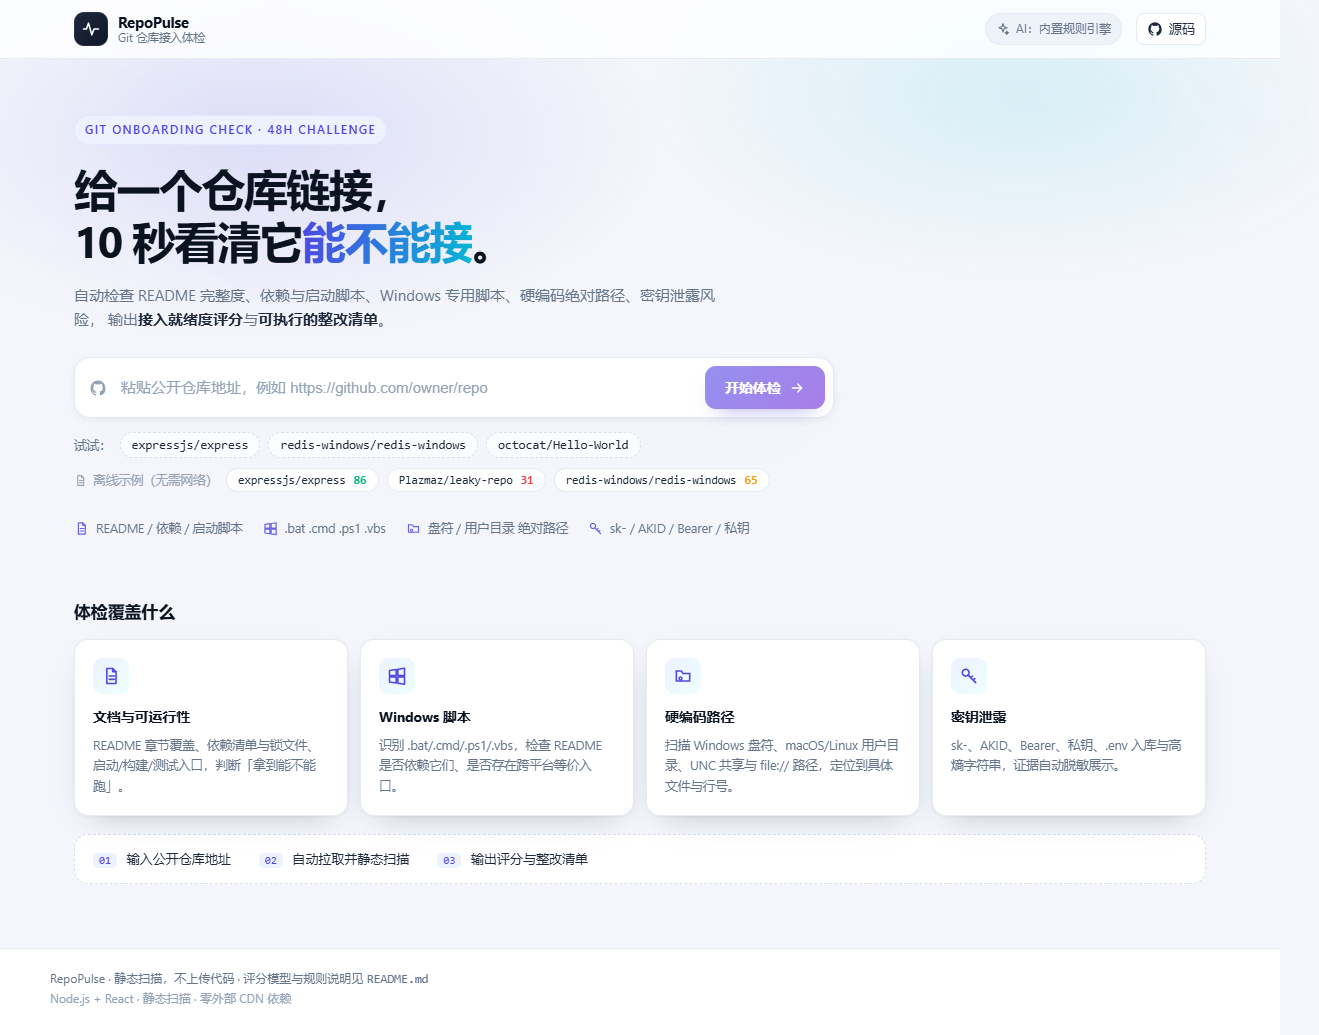
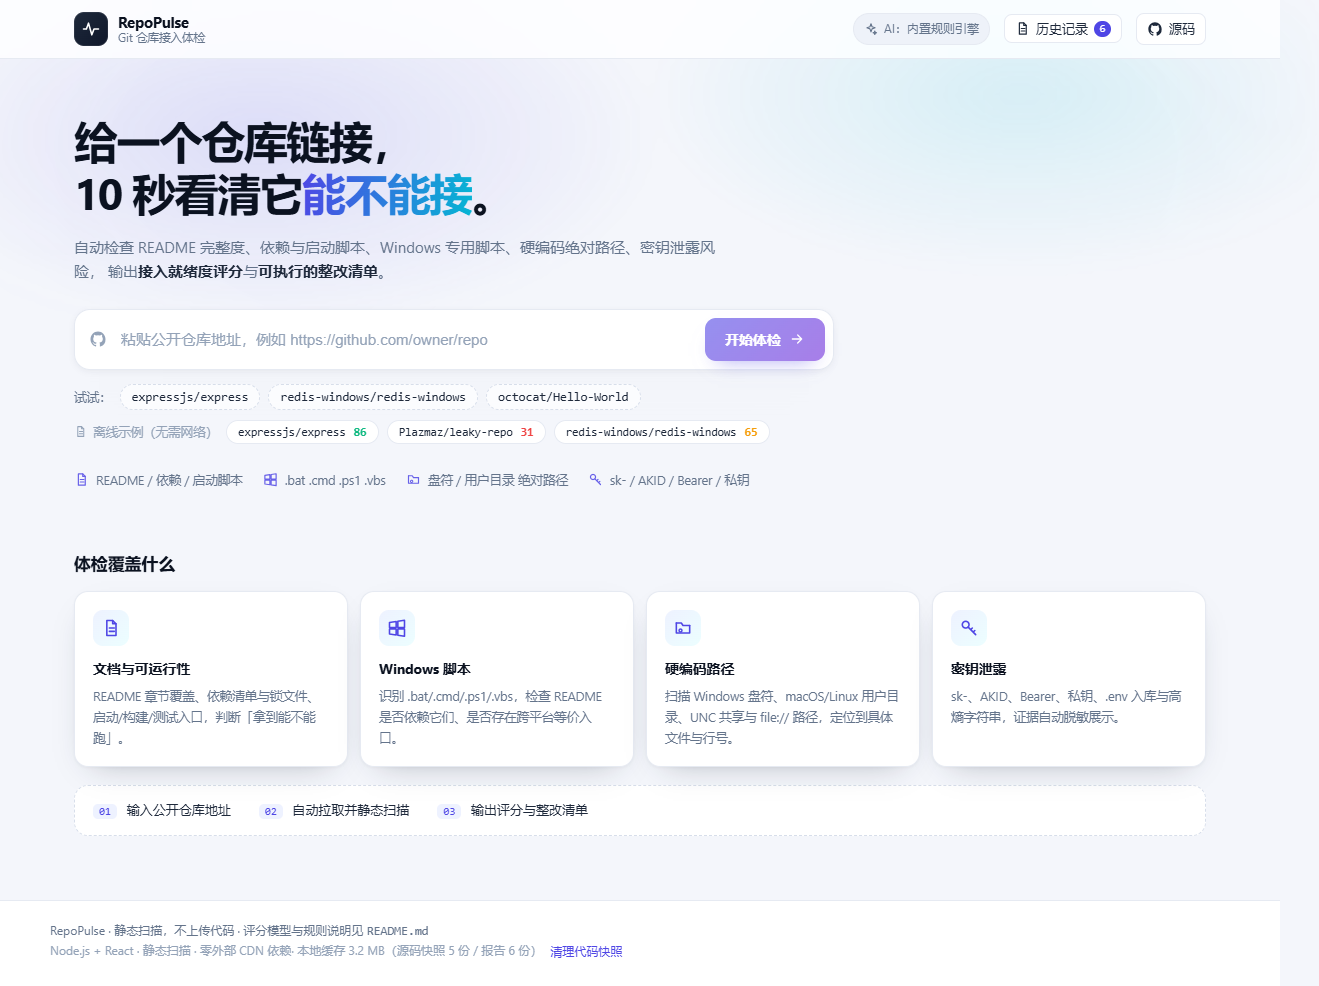
style: 去掉首页顶部的 GIT ONBOARDING CHECK 标签，首页截图同步更新

diff --git a/web/src/styles.css b/web/src/styles.css
@@ -210,19 +210,6 @@ code.mono,
   max-width: 820px;
 }
 
-.kicker {
-  display: inline-block;
-  font-size: 11.5px;
-  font-weight: 600;
-  letter-spacing: 0.14em;
-  color: var(--brand);
-  background: #eef2ff;
-  border: 1px solid #e0e7ff;
-  padding: 5px 10px;
-  border-radius: 999px;
-  margin-bottom: 18px;
-}
-
 .hero h1 {
   font-size: 44px;
   line-height: 1.18;
@@ -362,7 +349,6 @@ code.mono,
   padding: 22px 0 16px;
 }
 
-.hero.compact .kicker,
 .hero.compact .hero-sub,
 .hero.compact .features {
   display: none;

diff --git a/web/src/App.tsx b/web/src/App.tsx
@@ -216,7 +216,6 @@ export default function App() {
         <section className={`hero ${report ? 'compact' : ''}`}>
           <div className="hero-glow" aria-hidden />
           <div className="hero-inner">
-            <span className="kicker">GIT ONBOARDING CHECK · 48H CHALLENGE</span>
             <h1>
               给一个仓库链接，
               <br />
